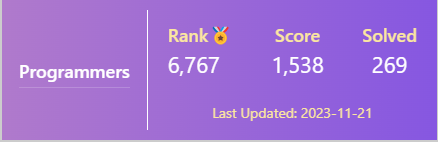
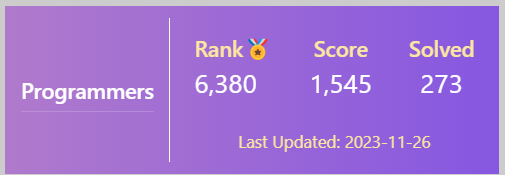
[chore] update programmers

diff --git a/ProgrammersRank.md b/ProgrammersRank.md
@@ -1,4 +1,4 @@
-<div style="background: linear-gradient(to right, #B977D1, #8E54E9); border: 3px solid #ccc; border-radius: 0px; padding: 0px; box-shadow: 0 2px 5px rgba(0, 0, 0, 0.1); display: flex; align-items: center; width: 50%;">
+<div style="background: linear-gradient(to right, #B977D1, #8E54E9); border: 5px solid #ccc; border-radius: 0px; padding: 0px; box-shadow: 0 2px 5px rgba(0, 0, 0, 0.1); display: flex; align-items: center; width: 50%;">
     <div style="flex: 1; text-align: center; display: flex; flex-direction: column; align-items: center;">
         <h2 style="font-size: 18px; color: #fff;">Programmers</h2>
     </div>
@@ -7,17 +7,17 @@
         <div style="display: flex; justify-content: space-between; padding: 0 20px;">
             <div>
                 <h3 style="font-size: 18px; margin-bottom: 0; text-align: center;color: #FFE697; ">Rank🏅</h3>
-                <p style="font-size: 22px;">6,767</p>
+                <p style="font-size: 22px;">6,380</p>
             </div>
             <div>
                 <h3 style="font-size: 18px; margin-bottom: 0;text-align: center;color: #FFE697; ">Score</h3>
-                <p style="font-size: 22px; text-align: center; ">1,538</p>
+                <p style="font-size: 22px; text-align: center; ">1,545</p>
             </div>
             <div>
                 <h3 style="font-size: 18px; margin-bottom: 0;color: #FFE697;">Solved</h3>
-                <p style="font-size: 22px; text-align: center; ">269</p>
+                <p style="font-size: 22px; text-align: center; ">273</p>
             </div>
         </div>
-        <p style="font-size: 14px; text-align: center; margin-top: 4px;color: #FFE697;">Last Updated: 2023-11-21</p>
+        <p style="font-size: 14px; text-align: center; margin-top: 4px;color: #FFE697;">Last Updated: 2023-11-26</p>
     </div>
 </div>

diff --git a/README.md b/README.md
@@ -9,7 +9,7 @@
 
 <div align="center">
 
-<img src="image.png" alt="Image" style="width: 300px; height: 120px;">
+<img src="image.png" alt="Image" style="width: 320px; height: 120px;">
 
 </div>
 
